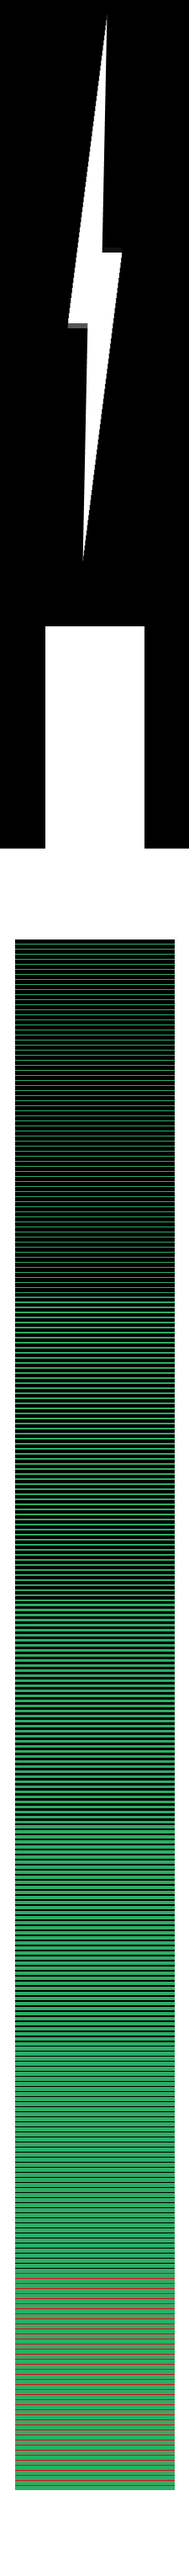
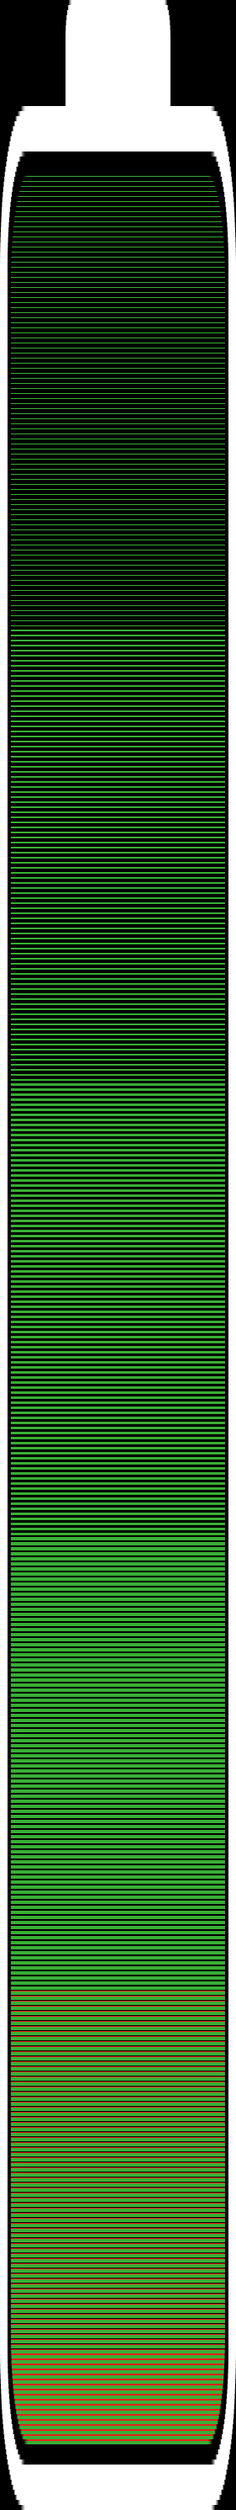
mido: charger: Update battery images, add custom font, fix selinux denials

diff --git a/healthd/healthd_board_msm.cpp b/healthd/healthd_board_msm.cpp
@@ -311,7 +311,7 @@ void healthd_board_mode_charger_init()
     int fd;
 
     GRFont* tmp_font;
-    int res = gr_init_font("font_log", &tmp_font);
+    int res = gr_init_font("font_charger", &tmp_font);
     if (res == 0) {
         gr_font = tmp_font;
     } else {
